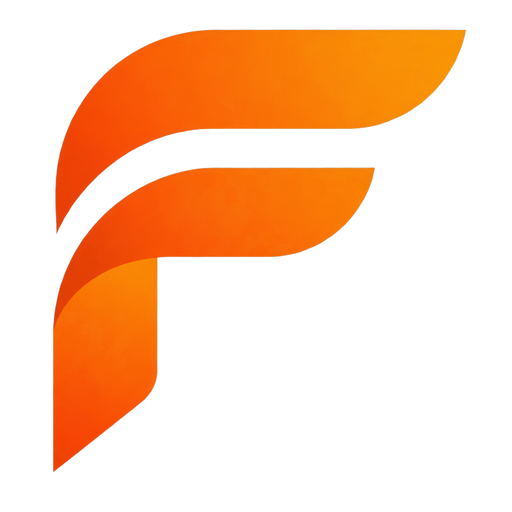
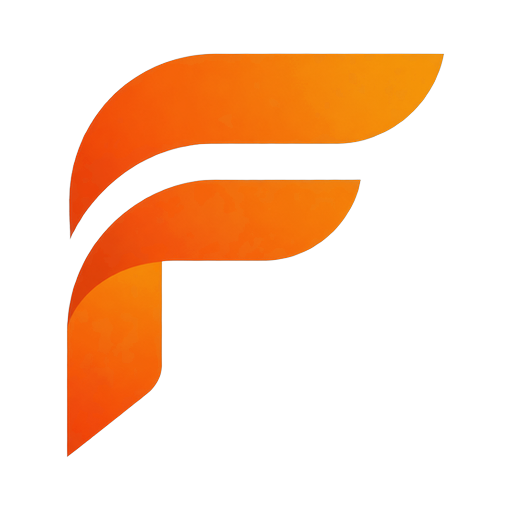
CA admin avec abonnement paie + icone plus petite

Changed region(s): [[0.0938, 0.0312, 0.9062, 0.9375], [0.2188, 0.5, 0.5625, 0.7812], [0.5625, 0.4688, 0.625, 0.5]]

diff --git a/app/admin/dashboard/page.tsx b/app/admin/dashboard/page.tsx
@@ -48,7 +48,13 @@ export default async function AdminDashboard() {
   ] = await Promise.all([
     prisma.entreprise.findMany({
       where: filtreClients,
-      select: { abonnement: { select: { prixMensuel: true } }, _count: { select: { salaries: true } } },
+      select: {
+        id: true,
+        ticketsUtilises: true,
+        abonnement: true,
+        abonnementPaie: true,
+        _count: { select: { salaries: true } },
+      },
     }),
     prisma.abonnement.findMany({
       include: { _count: { select: { entreprises: { where: filtreClients } } } },
@@ -71,9 +77,38 @@ export default async function AdminDashboard() {
     // Facturation de l'année (le mois en cours en est extrait)
     prisma.facturation.findMany({
       where: { annee: anneeActuelle, entreprise: { demo: false } },
-      select: { mois: true, montant: true, statut: true },
+      select: { mois: true, montant: true, statut: true, entrepriseId: true },
     }),
   ]);
+
+  // Salariés actifs sur le mois, par entreprise (base des suppléments salariés / bulletins)
+  const debutMoisCA = new Date(anneeActuelle, moisActuel - 1, 1);
+  const finMoisCA = new Date(anneeActuelle, moisActuel, 0);
+  const actifsParEntreprise = await prisma.salarie.groupBy({
+    by: ["entrepriseId"],
+    where: {
+      entreprise: filtreClients,
+      statut: "Actif",
+      OR: [{ dateDebut: null }, { dateDebut: { lte: finMoisCA } }],
+      AND: [{ OR: [{ dateFin: null }, { dateFin: { gte: debutMoisCA } }] }],
+    },
+    _count: { _all: true },
+  });
+  const nbActifs = new Map(actifsParEntreprise.map((g) => [g.entrepriseId, g._count._all]));
+
+  // Estimation mensuelle par client = abonnement RH + formule paie + suppléments (même calcul que la facturation)
+  const estimationClient = (e: (typeof entreprises)[number]) => {
+    const nb = nbActifs.get(e.id) || 0;
+    const abo = e.abonnement;
+    const paie = e.abonnementPaie;
+    const rh = abo
+      ? abo.prixMensuel +
+        Math.max(nb - abo.salariesInclus, 0) * abo.prixSalarieSupp +
+        Math.max((e.ticketsUtilises || 0) - abo.ticketsRH, 0) * abo.prixTicketSupp
+      : 0;
+    const p = paie ? paie.prixMensuel + Math.max(nb - paie.bulletinsInclus, 0) * paie.prixBulletinSupp : 0;
+    return rh + p;
+  };
 
   const masse = await masseP;
   const totalEntreprises = entreprises.length;
@@ -83,21 +118,27 @@ export default async function AdminDashboard() {
   // CA mensuel réel (factures générées ce mois)
   const caMensuelReel = facturationsMois.reduce((acc, f) => acc + f.montant, 0);
   // CA mensuel prévisionnel (abonnements de base)
-  const caMensuelPrev = entreprises.reduce((acc, e) => acc + (e.abonnement?.prixMensuel || 0), 0);
+  const caMensuelPrev = entreprises.reduce((acc, e) => acc + estimationClient(e), 0);
+  // Mois en cours : facture réelle pour les clients déjà facturés, estimation pour les autres
+  const caMoisMixte = entreprises.reduce((acc, e) => {
+    const factures = facturationsMois.filter((f) => f.entrepriseId === e.id);
+    return acc + (factures.length > 0 ? factures.reduce((s, f) => s + f.montant, 0) : estimationClient(e));
+  }, 0);
 
   // CA annuel réel (somme des factures générées cette année)
   const caAnnuelReel = facturationsAnnee.reduce((acc, f) => acc + f.montant, 0);
 
   // CA annuel prévisionnel = réel passé + abonnements de base pour mois restants
   const moisRestants = 12 - moisActuel;
-  const caAnnuelPrev = caAnnuelReel + (caMensuelPrev * moisRestants);
+  // = factures des mois passés + mois en cours (réel ou estimé) + estimation des mois restants
+  const caAnnuelPrev = (caAnnuelReel - caMensuelReel) + caMoisMixte + (caMensuelPrev * moisRestants);
 
   // Grille 12 mois pour onglets
   const grilleMois = MOIS.map((nomMois, i) => {
     const moisNum = i + 1;
     const facts = facturationsAnnee.filter(f => f.mois === moisNum);
     const montantReel = facts.reduce((acc, f) => acc + f.montant, 0);
-    const montantPrev = entreprises.reduce((acc, e) => acc + (e.abonnement?.prixMensuel || 0), 0);
+    const montantPrev = caMensuelPrev;
     const genere = facts.length > 0;
     return { moisNum, nomMois, montantReel, montantPrev, genere, facts };
   });
@@ -112,7 +153,7 @@ export default async function AdminDashboard() {
     { href: "/admin/entreprises/demandes", icone: "📩", label: "Évolutions", n: nbDemandes, couleur: "text-orange-500" },
     { href: "/admin/salaries", icone: "⏰", label: "Échéances", n: echeances.length, couleur: "text-red-500" },
   ];
-  const caMois = Math.round(facturationsMois.length > 0 ? caMensuelReel : caMensuelPrev);
+  const caMois = Math.round(caMoisMixte);
 
   return (
     <div className="min-h-screen bg-gray-100">

diff --git a/public/sw.js b/public/sw.js
@@ -2,7 +2,7 @@
 // - rend l'app installable ;
 // - hors connexion : les pages déjà consultées restent visibles (lecture seule) ;
 // - tout est effacé à la déconnexion (message "vider-cache" envoyé par l'app).
-const VERSION = "v2";
+const VERSION = "v3";
 const CACHE_STATIQUE = "franeo-statique-" + VERSION;
 const CACHE_PAGES = "franeo-pages-" + VERSION;
 const HORS_LIGNE = "/hors-ligne.html";
